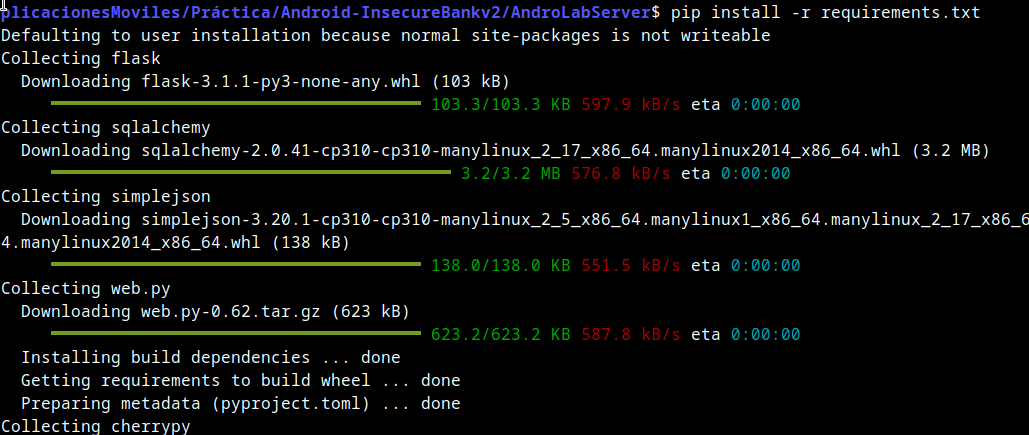
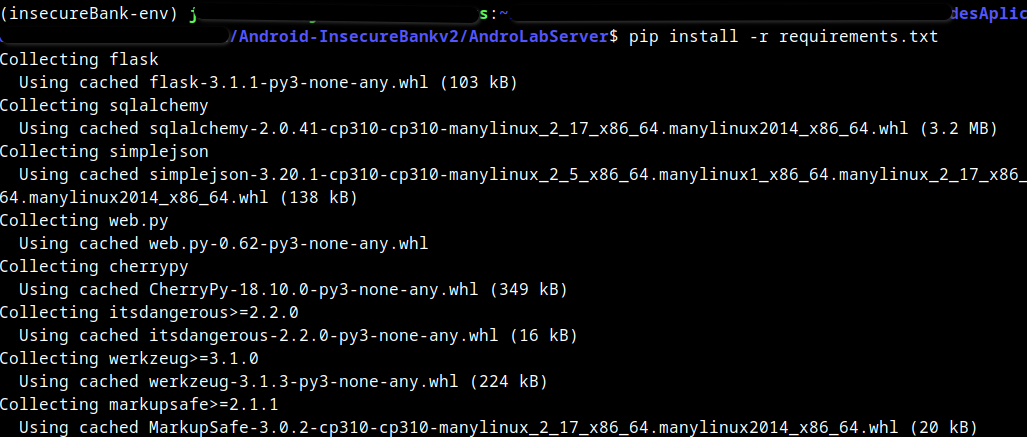
añadiendo

Changed region(s): [[0.0, 0.0, 1.0, 1.0], [0.3427, 0.8069, 0.4051, 0.8368]]

diff --git a/README.md b/README.md
@@ -149,13 +149,27 @@ InsecureBankv2 es una aplicación bancaria, por lo tanto tenemos:
 - Aplicación Bancaria **Cliente**. En este caso APK para Android.
 
 En este punto vamos a levantar la aplicación del servidor.
+
 El desarrollador tiene creado un laboratorio en la carpeta `AndroLabServer`. En esencia vamos a:
+
+- Crear un entorno virtual de Phyton para ejecutar el laboratorio.
 - Instalar python (si no lo tienes instalado) y librerias de python.
 - Ejecutar la aplicación.
 
+### Crear entornbo virtual de python
+
 ```bash
 cd AndroLabServer/
-sudo apt install python
+python3 -m venv insecureBank-env
+source insecureBank-env/bin/activate
+```
+Esto nos crea una carpeta con el entorno virtual y entramos en él, como podemos ver en la imagen:
+
+![](images/image17.png)
+
+Instalamos la librerías:
+
+```bash
 pip install -r requirements.txt
 ```
 ![](images/image15.png)
